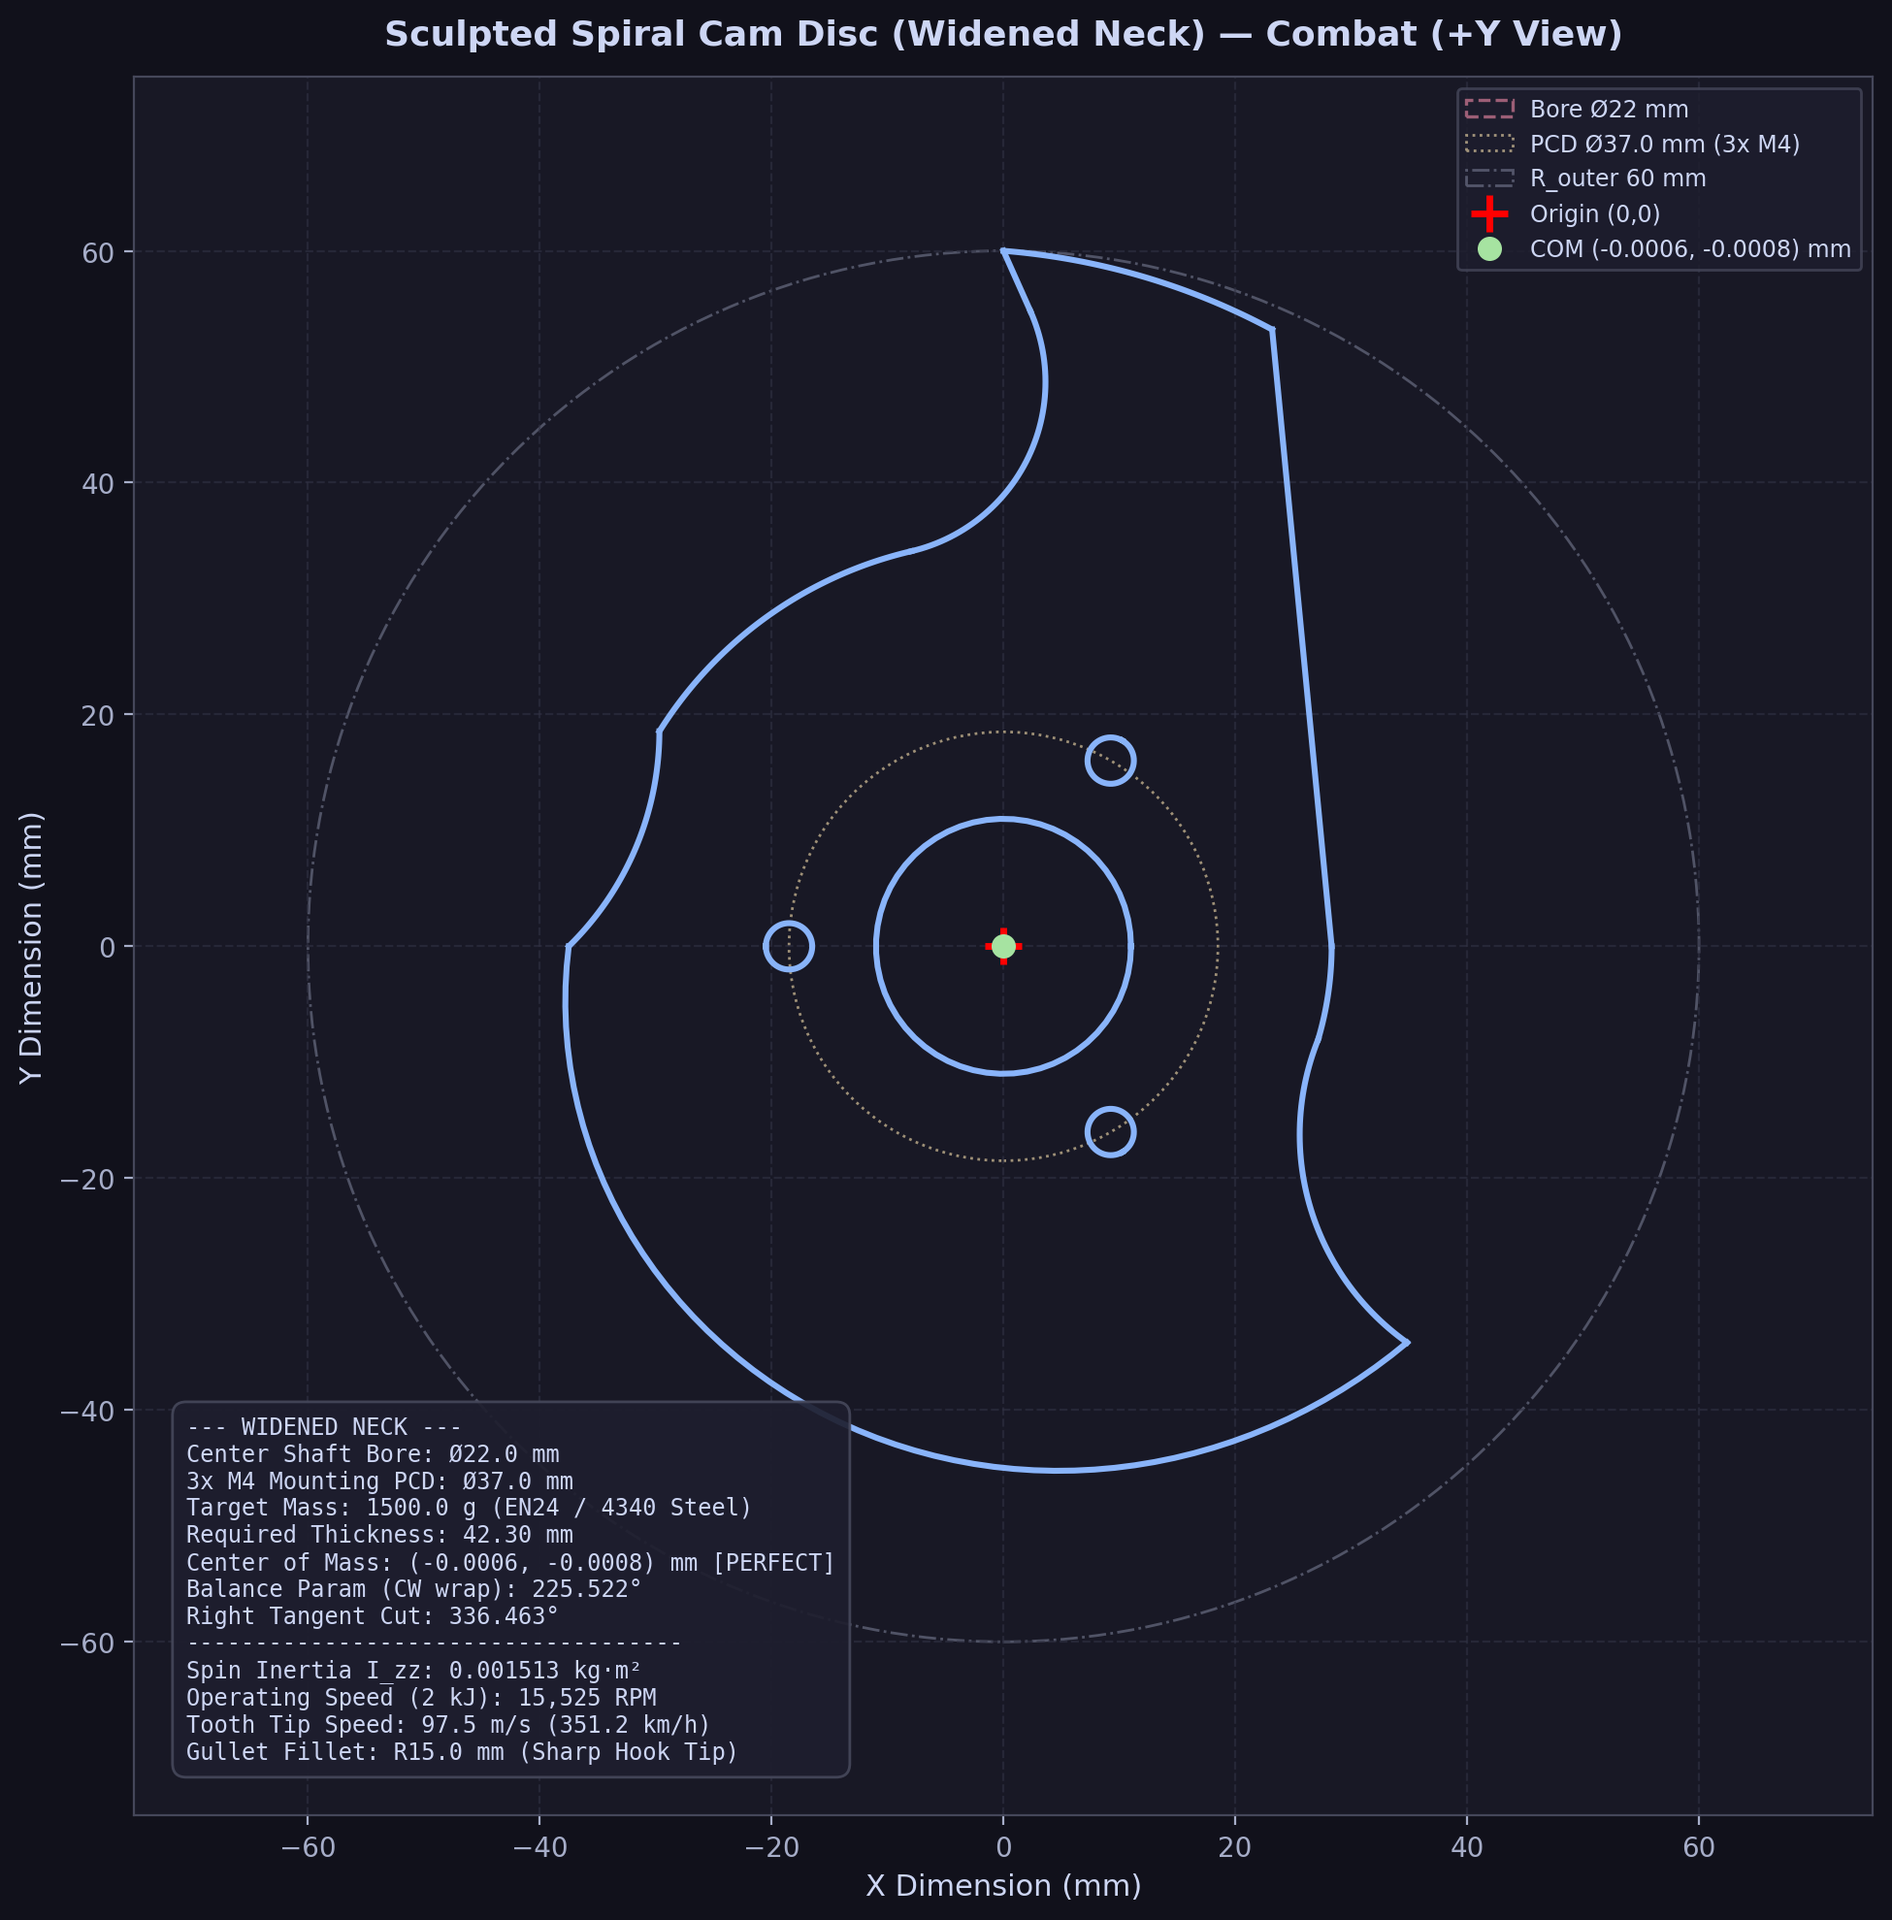
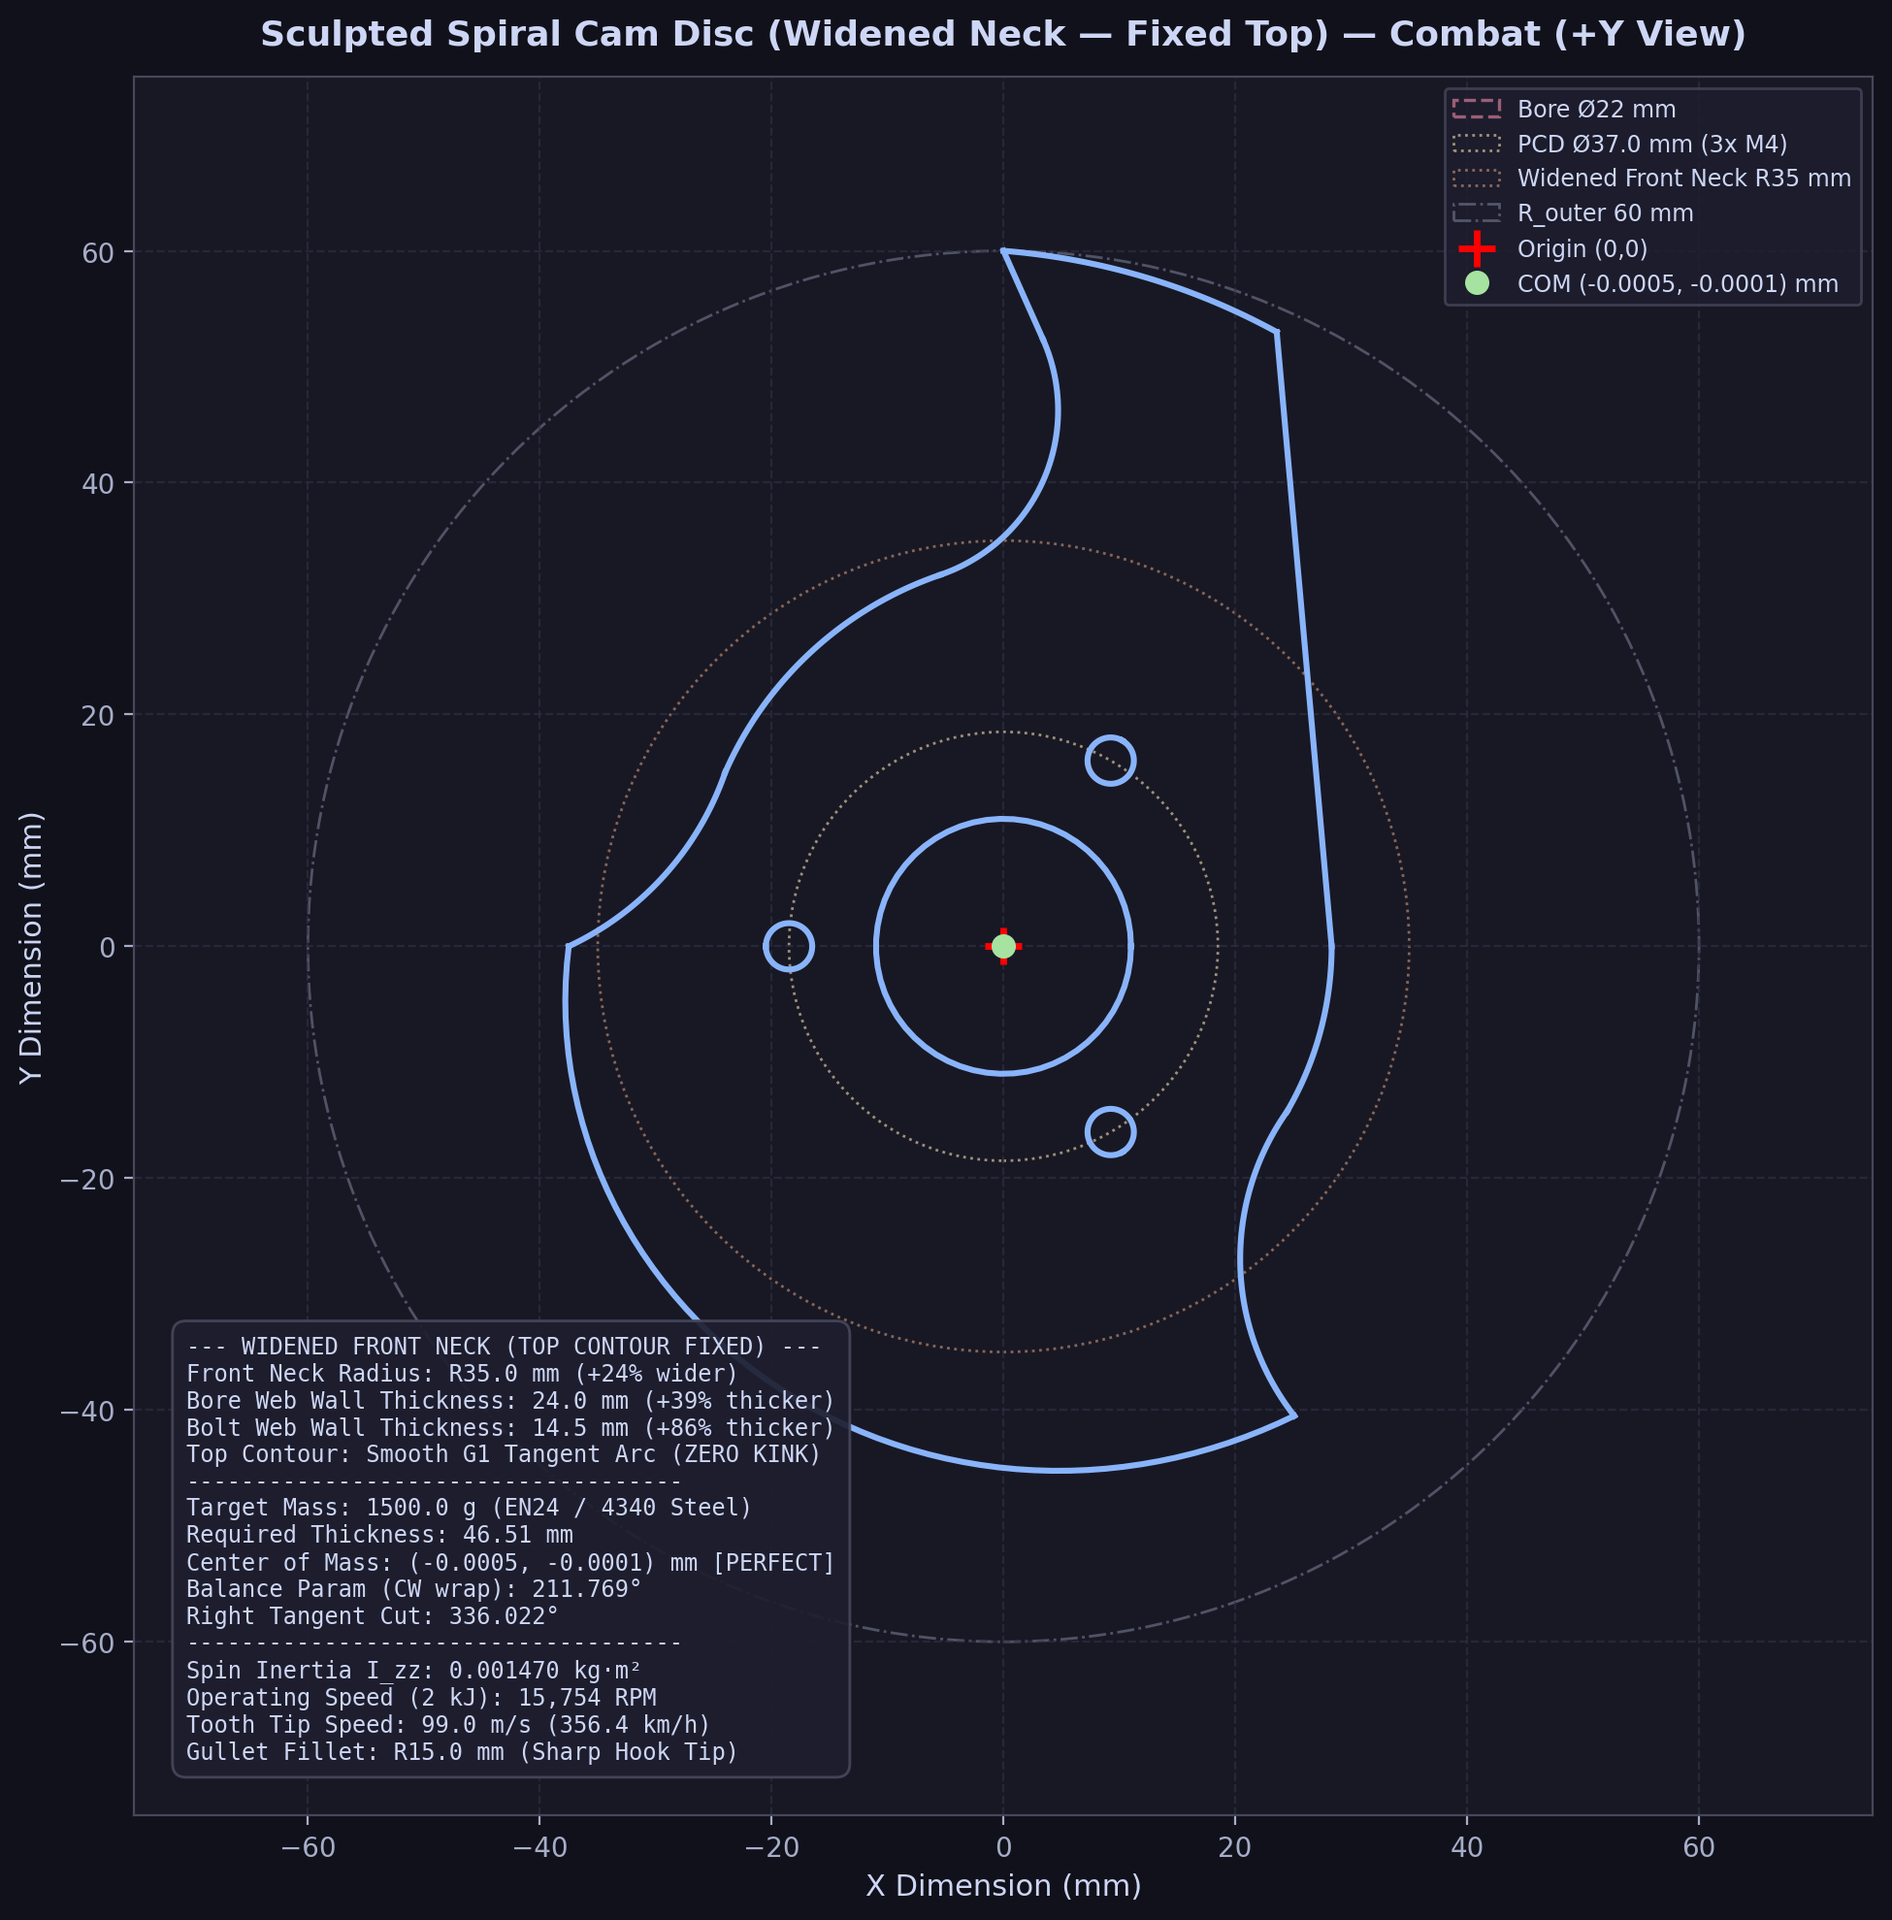
Fix top contour in widened neck profile: smooth G1 arc into top spiral, zero kink, COM=(0,0)

diff --git a/profiles/sculpted_spiral_cam_profile_widened_neck.py b/profiles/sculpted_spiral_cam_profile_widened_neck.py
@@ -1,16 +1,19 @@
 """
-Sculpted Archimedean Spiral Cam Disc (Screenshots 003340 - 003511).
-Reinforced Widened Neck Profile — dynamically balanced to COM = (0.000, 0.000).
+Sculpted Archimedean Spiral Cam Disc — Reinforced Widened Front Neck.
+Corrected with smooth top contour (zero kink) and dynamically balanced to COM = (0.000, 0.000).
 
-Geometry Updates:
-- Reinforced Front Neck: R_neck_front = 35.00 mm (baseline was 28.31 mm, +24% wider neck)
-- Front Bore Wall: 24.0 mm (+39% thicker web between bore and tooth root)
-- Front Bolt Web: 14.5 mm (+86% thicker web between M4 bolt hole and tooth root)
-- Dynamically balanced tuning variables:
-  * balance_param (CW wrap angle): 225.522° (baseline SW drawing was ~222.0°)
-  * deg_right_spiral (flank tangent cut): 336.463° (baseline SW drawing was 332.0°)
-- Required plate thickness for 1500 g mass target: 42.30 mm (slimmer by 5.5 mm)
-- Speed for 2000 J kinetic energy: 15,524 RPM (tip speed 97.5 m/s / 351 km/h)
+Key Features:
+- Reinforced Front Neck: R_neck_front = 35.00 mm (vs 28.31 mm baseline)
+  * Bore Web Wall Thickness: 24.00 mm (+39% thicker than baseline)
+  * Bolt Hole Web Wall Thickness: 14.50 mm (+86% thicker than baseline)
+- Smooth G1-Continuous Top Part: Upper relief arc anchors to R=28.31 mm core circle at 58.0°,
+  eliminating the top kink defect and smoothly sweeping into (0, 37.5 mm).
+- Sharp bottom-left counterweight hook with concave R22 mm relief arc.
+- Single internal tooth gullet fillet (R15.0 mm).
+- Dynamically balanced tuning:
+  * balance_param (CW wrap): 211.769°
+  * deg_right_spiral (cut): 336.022°
+- Sized for 1500 g in EN24/4340 steel: thickness = 46.51 mm.
 """
 
 import math
@@ -42,16 +45,16 @@ class SculptedSpiralGeometry:
     upper_relief_r: float = 26.00    # Upper-right inward-curving relief arc radius
     lower_hook_r: float = 22.00      # Bottom-left backward-curving hook arc radius
 
-    # Front Neck & Hub Boss Radius (Reinforced)
-    r_neck_front: float = 35.00      # Front throat / core boss radius (mm)
+    # Reinforced front neck radius
+    r_neck_front: float = 35.00      # mm (baseline was 28.31 mm)
 
     align_tooth_to_plus_y: bool = False  # False = native SolidWorks frame; True = combat spinner (+Y)
     density: float = 0.00785         # Steel density (g/mm³) - EN24 / 4340
-    thickness: float = 42.30         # Auto-sized to hit 1500 g target mass (for Ø22 bore)
+    thickness: float = 46.51         # Auto-sized to hit 1500 g target mass (for Ø22 bore)
 
     # Numerically balanced parameters:
-    balance_param: float = 225.522   # CW outer spiral wrap termination angle (deg)
-    deg_right_spiral: float = 336.463 # Bottom-right tangent chord intersection angle (deg)
+    balance_param: float = 211.769   # CW outer spiral wrap termination angle (deg)
+    deg_right_spiral: float = 336.022 # Bottom-right tangent chord intersection angle (deg)
 
     def _spiral_r(self, t: float) -> float:
         """Archimedean spiral radius R(t) = R_inner + (R_outer - R_inner) * (t / 2*pi)."""
@@ -104,17 +107,17 @@ class SculptedSpiralGeometry:
 
     def build_sketch(self):
         """
-        Builds the reinforced SolidWorks profile with widened front neck:
-        - Sharp top spiral tip at 90° curving inward along R26 relief arc to core circle (58°).
-        - Outward-bulging reinforced center-right neck arc (R35 mm) from 58° to root at -20.28°.
-        - R15.00 concave gullet fillet ONLY at the tooth root joining the flat striking face.
-        - Sharp bottom-left counterweight hook at ~225.5° curving backwards/inward (R22) to core.
-        - Smooth S-curve bottom transition flat chord.
+        Builds the reinforced profile with widened front neck and smooth top contour:
+        - Smooth top transition: upper relief arc connects to R28.31 mm core at 58.0°
+          and sweeps seamlessly into (0, 37.5 mm) with zero kink.
+        - Widened front neck (R35 mm) providing reinforced bore wall and bolt hole web.
+        - Sharp bottom-left hook curving backward/inward (R22) to core.
+        - Single internal gullet fillet (R15.0 mm).
         """
         rot_offset = (math.pi / 2.0) if self.align_tooth_to_plus_y else 0.0
 
-        r_core_base = self._spiral_r(self.t_start) # 28.31 mm for CW hook/bottom
-        r_neck = self.r_neck_front                 # 35.00 mm for reinforced front neck
+        r_core_base = self._spiral_r(self.t_start) # 28.31 mm (Baseline core circle)
+        r_neck = self.r_neck_front                 # 35.00 mm (Widened front neck)
         deg_root = math.degrees(self.t_start)      # -20.28°
 
         deg_top_spiral = 90.0
@@ -124,7 +127,7 @@ class SculptedSpiralGeometry:
         deg_lower_core_2 = 270.0
         deg_right_spiral = self.deg_right_spiral
 
-        # 1. Counterweight Outer Spiral
+        # 1. Counterweight Outer Spiral (90° -> cw_end)
         t_cw_start = math.radians(deg_top_spiral)
         t_cw_end = math.radians(deg_cw_end)
         cw_spiral_pts: List[Tuple[float, float]] = [
@@ -143,7 +146,7 @@ class SculptedSpiralGeometry:
             p_cw_hook_tip, p_core_bl, radius=self.lower_hook_r, concave_inward_to_origin=True
         )
 
-        # 3. Bottom Core Circle Arc
+        # 3. Bottom Core Circle Arc (250° -> 270°)
         p_core_bot = self._rot(self._core_pt(r_core_base, deg_lower_core_2), rot_offset)
         p_core_bot_mid = self._rot(
             self._core_pt(r_core_base, 0.5 * (deg_lower_core_1 + deg_lower_core_2)),
@@ -162,15 +165,16 @@ class SculptedSpiralGeometry:
         p_tooth_base = tooth_spiral_pts[0]
         p_tooth_tip = tooth_spiral_pts[-1]
 
-        # 5. Reinforced Front Neck & Core Boss (R35 mm from root -20.28° around right bolt hole to +58°)
+        # 5. Widened Front Neck Arc:
+        # Starts at p_root on widened radius R_neck (35 mm) at -20.28°
+        # Smoothly transitions to p_core_ur on baseline radius R_core_base (28.31 mm) at 58.0°!
         p_root = self._rot(self._core_pt(r_neck, deg_root), rot_offset)
-        p_core_right_mid = self._rot(
-            self._core_pt(r_neck, 0.5 * (deg_root + deg_upper_core)),
-            rot_offset
-        )
-        p_core_ur = self._rot(self._core_pt(r_neck, deg_upper_core), rot_offset)
+        deg_mid = 0.5 * (deg_root + deg_upper_core)
+        r_mid = 0.5 * (r_neck + r_core_base)
+        p_core_right_mid = self._rot(self._core_pt(r_mid, deg_mid), rot_offset)
+        p_core_ur = self._rot(self._core_pt(r_core_base, deg_upper_core), rot_offset)
 
-        # 6. Upper-Right Concave Relief Arc
+        # 6. Upper-Right Concave Relief Arc (100% Smooth Baseline Geometry - Zero Kink!)
         p_upper_relief_mid = self._arc_midpoint(
             p_core_ur, p_top_spiral, radius=self.upper_relief_r, concave_inward_to_origin=True
         )
